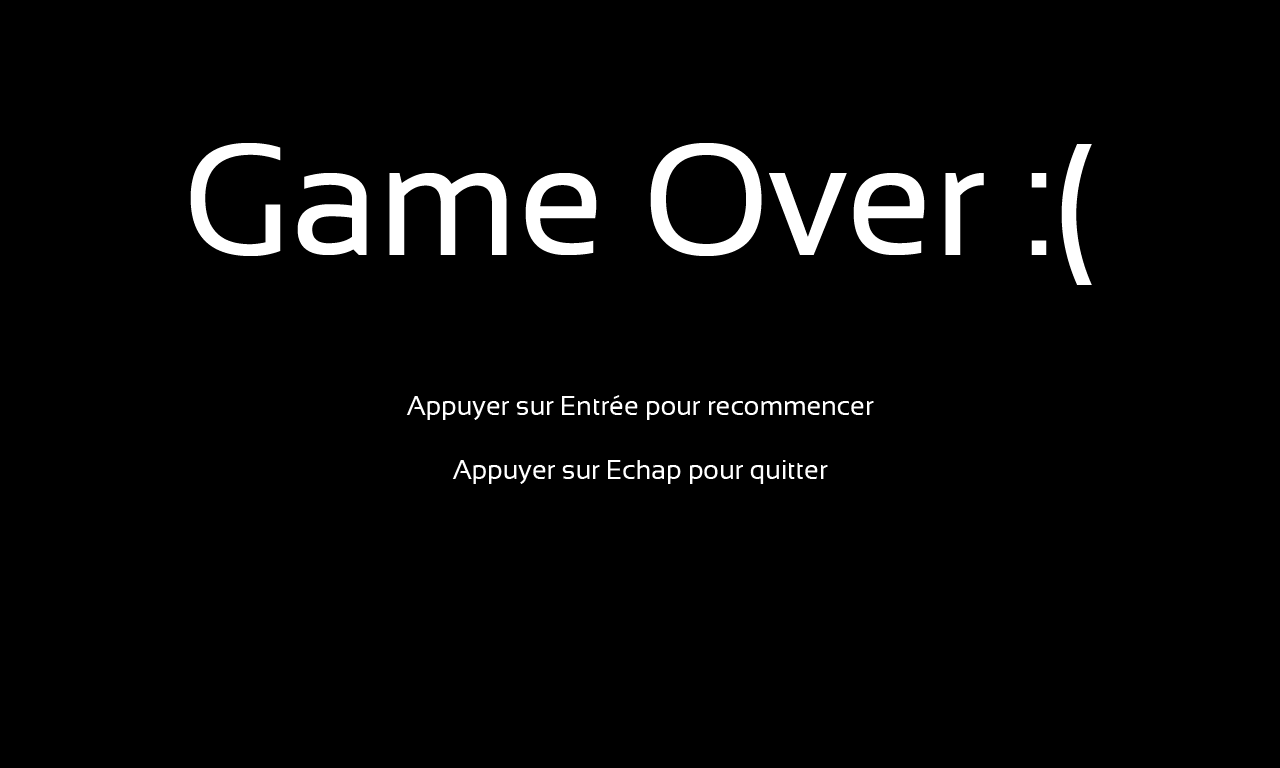
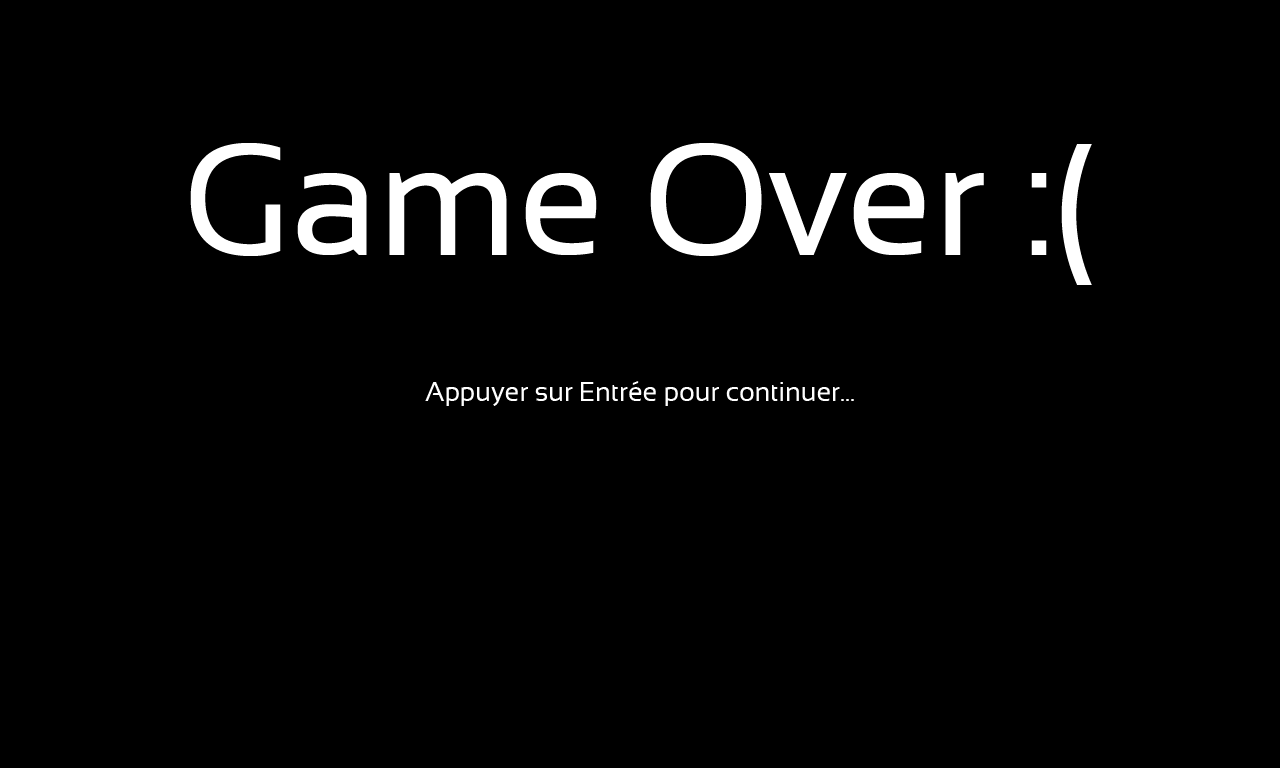
Menu added and GameOver is better

Changed region(s): [[0.3125, 0.5, 0.6875, 0.5625], [0.3438, 0.5938, 0.6562, 0.625]]

diff --git a/screens/Menu.cpp b/screens/Menu.cpp
@@ -1,0 +1,54 @@
+#include "Menu.hpp"
+
+#include <cassert>
+#include <SFML/Window/Keyboard.hpp>
+
+#include "../config.hpp"
+#include "../tools/locator.hpp"
+
+Menu::Menu(StateMachine& stateMachine) : _stateMachine(stateMachine),
+                                         _playingScreen(new PlayingScreen(stateMachine)) // deleted in the state machine
+{
+    _stateMachine.add("playingscreen", _playingScreen);
+    init();
+}
+
+Menu::~Menu()
+{
+}
+
+void Menu::init()
+{
+    ImageManager* im = Locator::getImageManager();
+    _texture = im->getTexture(IMAGES_PATH"menu.png");
+    assert(_texture != NULL);
+
+    _sprite.setTexture(*_texture);
+}
+
+void Menu::update(sf::Time elapsedTime)
+{
+    if(sf::Keyboard::isKeyPressed(sf::Keyboard::Num1) || sf::Keyboard::isKeyPressed(sf::Keyboard::Numpad1))
+    {
+        _playingScreen->load("level1.xml");
+        _stateMachine.change("playingscreen");
+    }
+    else if(sf::Keyboard::isKeyPressed(sf::Keyboard::Num2) || sf::Keyboard::isKeyPressed(sf::Keyboard::Numpad2))
+    {
+        _playingScreen->load("level2.xml");
+        _stateMachine.change("playingscreen");
+    }
+}
+
+void Menu::draw(sf::RenderWindow& app)
+{
+    app.draw(_sprite);
+}
+
+void Menu::onEnter()
+{
+}
+
+void Menu::onExit()
+{
+}

diff --git a/gamestate.cpp b/gamestate.cpp
@@ -33,14 +33,18 @@ void PlayingScreen::init()
     Log::write(Log::LOG_INFO, "Playing Screen initialization");
 
     Context& c = Game::getContext();
-    Level& lvl = Game::getContext().getLevel();
-
-    std::string level("level1.xml");
-    lvl.loadFromFile(LEVELS_PATH + level);
-    Log::write(Log::LOG_INFO, std::string("Charging level " + level));
 
     c.getShots().clear();
     c.getCharacters().clear();
+}
+
+void PlayingScreen::load(std::string levelName)
+{
+    Level& lvl = Game::getContext().getLevel();
+
+    std::string level(levelName);
+    lvl.loadFromFile(LEVELS_PATH + level);
+    Log::write(Log::LOG_INFO, std::string("Charging level " + level));
 }
 
 /** \brief Update the playing screen and call the collision function
@@ -166,6 +170,7 @@ void PlayingScreen::draw(sf::RenderWindow& app)
  */
 void PlayingScreen::onEnter()
 {
+    Game::getContext().reset();
 }
 
 /** \brief Launched when the playingscreen is ended in the state machine

diff --git a/game.cpp b/game.cpp
@@ -7,7 +7,9 @@
 
 #include "screens/splashscreen.hpp"
 #include "screens/GameOver.hpp"
+#include "screens/menu.hpp"
 #include "gamestate.hpp"
+
 #include "tools/imagemanager.hpp"
 #include "tools/locator.hpp"
 #include "tools/log.hpp"
@@ -76,7 +78,8 @@ void Game::run()
     // Initialize screens
     Log::write(Log::LOG_INFO, "Initializing screens");
     _stateMachine.add("splashscreen", new SplashScreen(_stateMachine));
-    _stateMachine.add("playingscreen", new PlayingScreen(_stateMachine));
+    _stateMachine.add("menu", new Menu(_stateMachine));
+    //_stateMachine.add("playingscreen", new PlayingScreen(_stateMachine));
     _stateMachine.add("gameover", new GameOver(_stateMachine));
 
     _stateMachine.change("splashscreen");

diff --git a/screens/Menu.hpp b/screens/Menu.hpp
@@ -1,0 +1,29 @@
+#ifndef MENU_HPP
+#define MENU_HPP
+
+#include <SFML/Graphics/Sprite.hpp>
+
+#include "statemachine.hpp"
+#include "../gamestate.hpp"
+
+class Menu : public IState
+{
+    public:
+        Menu(StateMachine& stateMachine);
+        ~Menu();
+
+        void init();
+        void update(sf::Time elapsedTime);
+        void draw(sf::RenderWindow& app);
+        void onEnter();
+        void onExit();
+
+    private:
+        sf::Texture *_texture;
+        sf::Sprite _sprite;
+        StateMachine& _stateMachine;
+
+        PlayingScreen* _playingScreen;
+};
+
+#endif

diff --git a/context.cpp b/context.cpp
@@ -16,6 +16,16 @@ Context::~Context()
     std::for_each(_characters.begin(), _characters.end(), Deallocator<Character>());
 }
 
+void Context::reset()
+{
+    std::for_each(_shots.begin(), _shots.end(), Deallocator<Shot>());
+    std::for_each(_characters.begin(), _characters.end(), Deallocator<Character>());
+    _isGameOver = false;
+
+    _shots.clear();
+    _characters.clear();
+}
+
 std::list<Shot*>& Context::getShots()
 {
     return _shots;

diff --git a/screens/GameOver.cpp b/screens/GameOver.cpp
@@ -27,7 +27,7 @@ void GameOver::init()
 void GameOver::update(sf::Time elapsedTime)
 {
     if(sf::Keyboard::isKeyPressed(sf::Keyboard::Return))
-        _stateMachine.change("playingscreen");
+        _stateMachine.change("menu");
 }
 
 void GameOver::draw(sf::RenderWindow& app)

diff --git a/screens/splashscreen.cpp b/screens/splashscreen.cpp
@@ -47,7 +47,7 @@ void SplashScreen::init()
 void SplashScreen::update(sf::Time elapsedTime)
 {
     if(sf::Mouse::isButtonPressed(sf::Mouse::Left))
-        _stateMachine.change("playingscreen");
+        _stateMachine.change("menu");
 }
 
 /** \brief Draw the splashscreen

diff --git a/gamestate.hpp b/gamestate.hpp
@@ -17,6 +17,8 @@ class PlayingScreen : public IState
         ~PlayingScreen();
 
         void init();
+        void load(std::string levelName);
+
         void update(sf::Time elapsedTime);
         void checkAllCollisions();
         void draw(sf::RenderWindow& app);

diff --git a/castle.cpp b/castle.cpp
@@ -33,6 +33,8 @@ void Castle::load(std::string filename)
 
     _hitbox = new BoundingBoxHitbox(getGlobalBounds());
     _hitbox->setPosition(getPosition().x, getPosition().y);
+
+    setLife(10); // debug
 }
 
 void Castle::updateCurrent(sf::Time elapsedTime)
